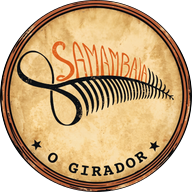
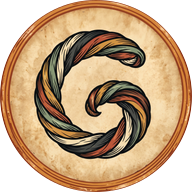
chore(pwa): gaufrier 96px leger, icones PWA neutres (G tresse), bump 1.7.1

diff --git a/src/index.css b/src/index.css
@@ -1,4 +1,4 @@
-/* O Girador Organizador - Feuille de styles principale v1.7.0 */
+/* O Girador Organizador - Feuille de styles principale v1.7.1 */
 @import "tailwindcss";
 
 @variant dark (&:where(.dark, .dark *, [data-theme="dark"], [data-theme="dark"] *));
@@ -12,7 +12,7 @@
 }
 
 :root {
-  --v-release-bust: '1.7.0';
+  --v-release-bust: '1.7.1';
   /* Mode Clair par défaut (Thème papier crème Cordel) */
   --cordel-bg: #f4ecd8;
   --color-cordel-bg: #f4ecd8;
